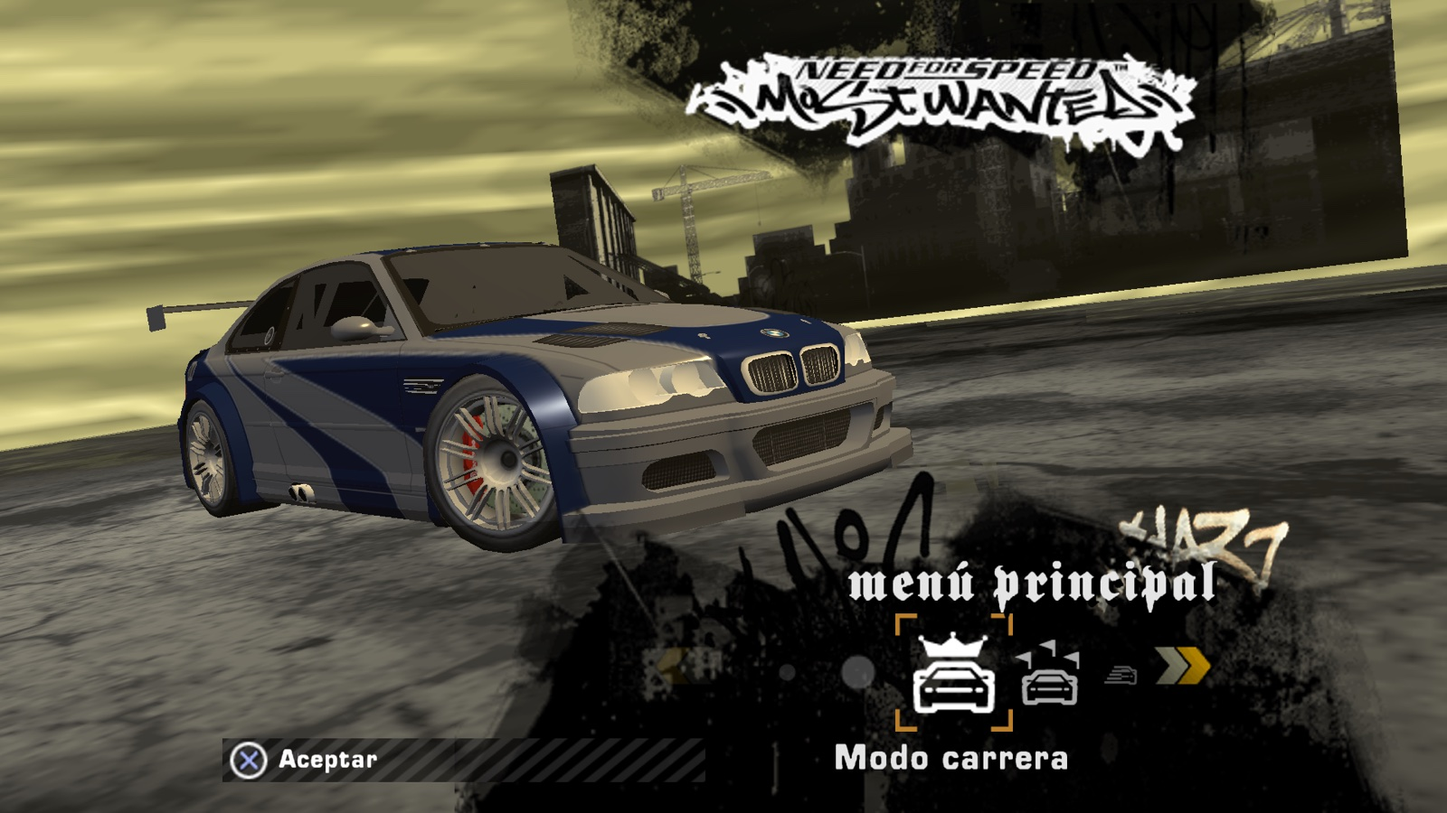
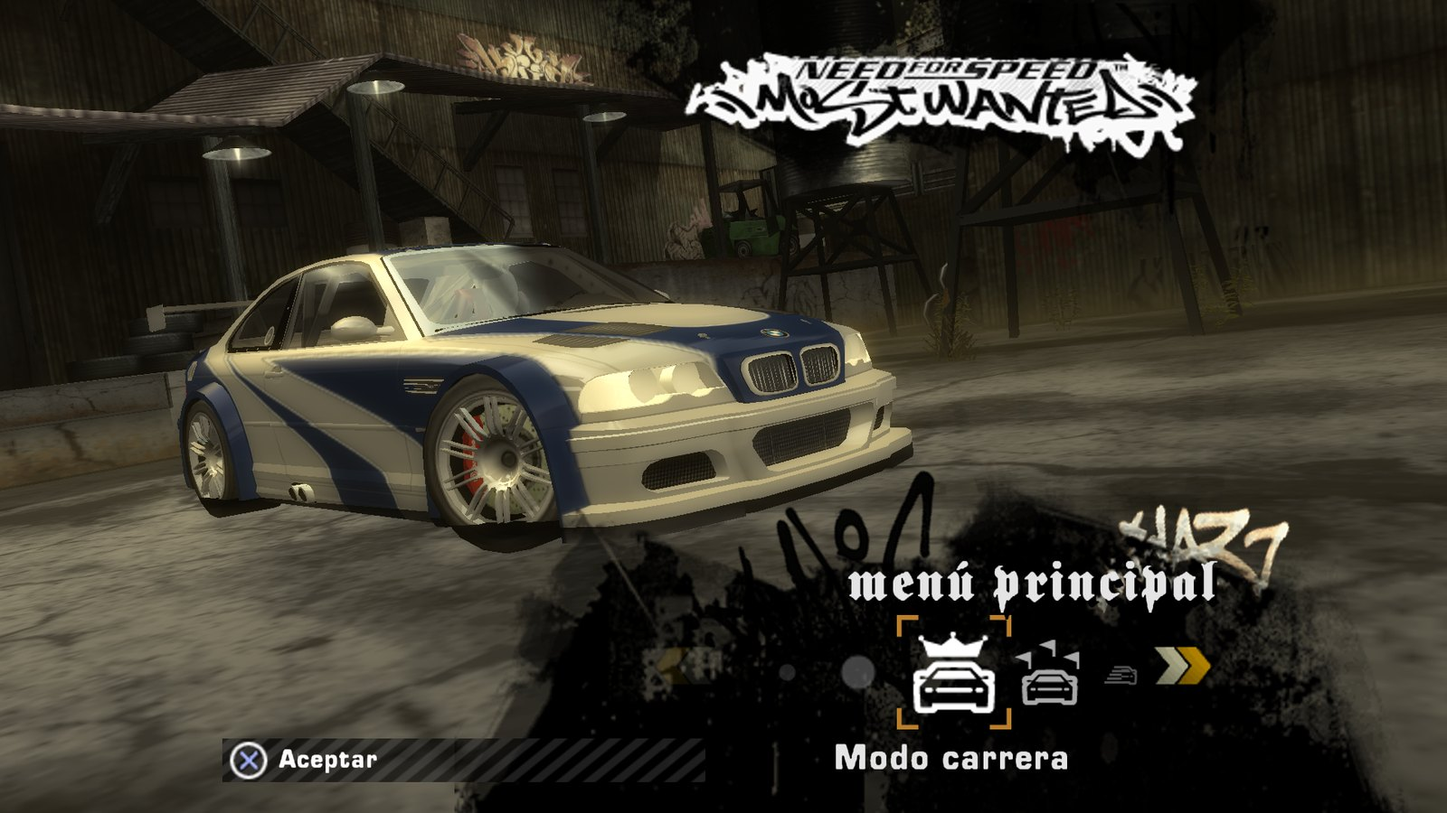
v0.6: interiores de garaje fieles (todos los BACKDROP del juego, patio de los depósitos en el menú), entrada conduciendo construida con texturas del disco, cambio de coche sin carga; README con galería nueva, cobertura 99,94 % y documentos 20-25

diff --git a/site/index.html b/site/index.html
@@ -174,8 +174,8 @@
     <p class="lede rise">
       <span data-es>Need for Speed: Most Wanted (2005), funcionando de forma nativa en macOS con Metal. Lo construyes tú desde <b>tu propia ISO de PS2</b>: el instalador detecta si es PAL (SLES-53559) o NTSC-U (SLUS-21351) y convierte el juego en tu Mac.</span>
       <span data-en>Need for Speed: Most Wanted (2005), running natively on macOS with Metal. You build it from <b>your own PS2 ISO</b>: the installer detects PAL (SLES-53559) or NTSC-U (SLUS-21351) and converts the game on your Mac.</span>
-      <small data-es>Proyecto abierto de ingeniería inversa. No incluye ni distribuye datos del juego. Versión 0.5 · Mac con Apple Silicon, macOS 14+.</small>
-      <small data-en>Open reverse-engineering project. It does not include or distribute game data. Version 0.5 · Apple Silicon Mac, macOS 14+.</small>
+      <small data-es>Proyecto abierto de ingeniería inversa. No incluye ni distribuye datos del juego. Versión 0.6 · Mac con Apple Silicon, macOS 14+.</small>
+      <small data-en>Open reverse-engineering project. It does not include or distribute game data. Version 0.6 · Apple Silicon Mac, macOS 14+.</small>
     </p>
     <div class="cta rise">
       <a class="btn solid" href="https://github.com/pablonolascoo/nfs-mw-2005-ps2-port/releases/latest"><i class="ph-bold ph-download-simple"></i> <span data-es>Descargar para Mac</span><span data-en>Download for Mac</span></a>

diff --git a/native-engine/Sources/Rockport/Garage/GarageScenes.swift b/native-engine/Sources/Rockport/Garage/GarageScenes.swift
@@ -64,7 +64,7 @@ final class GarageScenes {
     /// Depuración: ROCKPORT_SCENE_OFF=1 no dibuja la escena (para comparar con el interior solo).
     static let debugOff = ProcessInfo.processInfo.environment["ROCKPORT_SCENE_OFF"]
     /// Intensidad del reflejo del suelo del escenario (ROCKPORT_REFLECTION=0…1 para probar).
-    static let reflectionTint: Float = ProcessInfo.processInfo.environment["ROCKPORT_REFLECTION"].flatMap(Float.init) ?? 0.18
+    static let reflectionTint: Float = ProcessInfo.processInfo.environment["ROCKPORT_REFLECTION"].flatMap(Float.init) ?? 0.5
     private let root: URL
     private var cache: [String: Scene?] = [:]
     private var reflections: [String: GPUMesh?] = [:]

diff --git a/native-engine/Sources/Rockport/Garage/GarageSystem.swift b/native-engine/Sources/Rockport/Garage/GarageSystem.swift
@@ -67,7 +67,9 @@ final class GarageSystem {
             }
         }
         scenes.apply(&f)
-        renderer.items = items + scenes.drawItems(stage: stage, world: world)
+        // La escena va antes: el reflejo del escenario (debajo del suelo semitransparente, que no escribe profundidad) tiene
+        // que dibujarse antes que el suelo
+        renderer.items = scenes.drawItems(stage: stage, world: world) + items
     }
 }
 

diff --git a/README.en.md b/README.en.md
@@ -4,7 +4,7 @@
 
 <a href="https://rockport-native.vercel.app"><img src="site/img/banner.jpg" alt="Rockport Native: the Most Wanted BMW M3 GTR in the native macOS engine" width="100%"></a>
 
-<p align="center"><b><a href="https://github.com/pablonolascoo/nfs-mw-2005-ps2-port/releases/latest">⬇ Download for Mac (v0.5)</a></b> · <a href="https://rockport-native.vercel.app">🌐 Project page</a> · <a href="#user-guide">User guide</a> · <a href="#the-rust-belt-expansion">The expansion</a> · <a href="ROADMAP.en.md">Roadmap</a> · <a href="CONTRIBUTING.md">Contribute</a> · <a href="CONTEXT.md">Context</a></p>
+<p align="center"><b><a href="https://github.com/pablonolascoo/nfs-mw-2005-ps2-port/releases/latest">⬇ Download for Mac (v0.6)</a></b> · <a href="https://rockport-native.vercel.app">🌐 Project page</a> · <a href="#user-guide">User guide</a> · <a href="#the-rust-belt-expansion">The expansion</a> · <a href="ROADMAP.en.md">Roadmap</a> · <a href="CONTRIBUTING.md">Contribute</a> · <a href="CONTEXT.md">Context</a></p>
 
 **An open decompilation and reverse-engineering project** for the **PlayStation 2** *Need for Speed: Most Wanted* (2005). We read your own ISO, understand every format and game system (helped by the [dbalatoni13/nfsmw](https://github.com/dbalatoni13/nfsmw) decomp) and rebuild it as a **native game**, faithful to the original: same city, same cars, same interface, same warm PS2 tone.
 
@@ -16,8 +16,8 @@ Then **we expand it**: an expansion that continues the story as if the same stud
 
 | | What | Status |
 |---|---|---|
-| 🔬 **Decompilation** | Disc formats, database, physics, AI, interface, audio… all documented in [`docs/`](docs/en), every fact tagged ([V] verified, [D] decomp, [I] inferred, [H] hypothesis) | ✅ well advanced |
-| 🖥 **Native port** | Own engine that plays Rockport from your ISO, no emulator | ✅ playable on Mac (v0.5) |
+| 🔬 **Decompilation** | Disc formats, database, physics, AI, interface, audio, movies, music, scenes… all documented in [`docs/`](docs/en), every fact tagged ([V] verified, [D] decomp, [I] inferred, [H] hypothesis) | ✅ **99.94 % of the disc understood** ([doc 21](docs/en/21-coverage.md)) |
+| 🖥 **Native port** | Own engine that plays Rockport from your ISO, no emulator | ✅ playable on Mac (v0.6) |
 | 🗺 **"Rust Belt" expansion** | 4 new districts, Blacklist 2, classic cars, the story continues | 🧭 designed, [see below](#the-rust-belt-expansion) |
 
 ### Platforms
@@ -43,14 +43,14 @@ Beating Razor opens an industrial Rust Belt county around Rockport: **Millbrook*
 | Race with the original HUD | Police pursuit |
 |---|---|
 | <img src="site/img/carrera.jpg" alt="Sprint race with the original HUD and the event barriers"> | <img src="site/img/persecucion.jpg" alt="Pursuit with the original HUD and radar"> |
-| **Original main menu, with your car** | **Customization shop, no loading screens** |
-| <img src="site/img/menu.jpg" alt="Original main menu with the BMW M3 GTR"> | <img src="site/img/taller.jpg" alt="Customization shop: painting the BMW"> |
-| **Race results** | **Blacklist screen** |
-| <img src="site/img/resultados.jpg" alt="Original results screen"> | <img src="site/img/listanegra-pantalla.jpg" alt="Blacklist screen with Sonny, #15"> |
+| **Main menu: the water-tower yard** | **Your safehouse, with the Blacklist chalkboard** |
+| <img src="site/img/menu.jpg" alt="Original main menu with the BMW M3 GTR in the night yard"> | <img src="site/img/garaje-coches.jpg" alt="The BMW M3 GTR in the safehouse"> |
+| **Customization shop, no loading screens** | **Blacklist screen** |
+| <img src="site/img/taller.jpg" alt="Customization shop: painting the BMW"> | <img src="site/img/listanegra-pantalla.jpg" alt="Blacklist screen with Sonny, #15"> |
 
 ## What works today
 
-### The game (native macOS engine, v0.5)
+### The game (native macOS engine, v0.6)
 | | Status |
 |---|---|
 | All of Rockport full screen at your screen's resolution and 60 fps, with the warm PS2 tone always on | ✅ |
@@ -63,8 +63,8 @@ Beating Razor opens an industrial Rust Belt county around Rockport: **Millbrook*
 | **Original sound**: each car's engine, turbo, shifts, nitrous, skids, impacts, sirens — [doc 16](docs/en/16-audio-and-voices.md) | ✅ |
 | **Quick Race and split screen** (2 players as the original; 3–4 and multi-display as extensions) — [doc 19](docs/en/19-quick-race-and-multiplayer.md) | ✅ |
 | **Controllers**: Xbox, PS3/PS4/PS5 and PS2 via USB, with light bar, touchpad and DualSense triggers — [doc 15](docs/en/15-controllers.md) | ✅ (untested on real hardware) |
-| The game's lighting: car reflections, shadows, fog and light shafts | 🚧 in progress |
-| Movies, music, career map, car-to-car collisions, helicopter | 🔜 |
+| **The game's lighting**: car reflections from the disc's environment maps, shadow, sky, sun and glow; garages faithful to the original — [doc 20](docs/en/20-lighting-and-effects.md) | ✅ |
+| Movies (dubbed in Spanish on the PAL disc), EA Trax music, particles and flares: **decoded**, not yet wired into the game · car-to-car collisions · helicopter | 🔜 |
 
 ### The reverse engineering
 | | Status |
@@ -196,22 +196,36 @@ cd ../viewer && bun install && bunx vite                                    # ht
 ```
 
 ## Documentation
-| Topic | English | Español |
-|---|---|---|
-| Disc identification | [docs/en/00](docs/en/00-disc-identification.md) | [docs/es/00](docs/es/00-identificacion-disco.md) |
-| Decomp compatibility | [docs/en/01](docs/en/01-sles53559-compatibility.md) | [docs/es/01](docs/es/01-compatibilidad-sles53559.md) |
-| PS2 formats | [docs/en/02](docs/en/02-ps2-formats.md) | [docs/es/02](docs/es/02-formatos-ps2.md) |
-| Rockport world | [docs/en/03](docs/en/03-rockport-world-ps2.md) | [docs/es/03](docs/es/03-mundo-rockport-ps2.md) |
-| Porting architecture | [docs/en/04](docs/en/04-port-architecture.md) | [docs/es/04](docs/es/04-arquitectura-port.md) |
-| Driving and garages | [docs/en/07](docs/en/07-driving-and-garages.md) | [docs/es/07](docs/es/07-conduccion-y-garajes.md) |
-| Mods and expansions | [docs/en/08](docs/en/08-mods.md) | [docs/es/08](docs/es/08-mods.md) |
-| Gameplay database (VLT): zones, races, Blacklist | [docs/en/05](docs/en/05-vlt-attributes.md) | [docs/es/05](docs/es/05-vlt-atributos.md) |
-| Viewer performance | [docs/en/06](docs/en/06-performance.md) | [docs/es/06](docs/es/06-rendimiento.md) |
-| Road network and collision | [docs/en/09](docs/en/09-road-network.md) | [docs/es/09](docs/es/09-red-de-carreteras.md) |
-| Cars: replacement textures, paint, wheels | [docs/en/10](docs/en/10-cars.md) | [docs/es/10](docs/es/10-coches.md) |
-| "Rust Belt" expansion: map, sketches, story | [docs/en/12](docs/en/12-rust-belt-expansion.md) | [docs/es/12](docs/es/12-expansion-rust-belt.md) |
-| Generated data catalog (which file answers what) | [docs/en/11](docs/en/11-data-catalog.md) | [docs/es/11](docs/es/11-catalogo-de-datos.md) |
-| **Project context: start here to resume work** | [CONTEXT.md](CONTEXT.md) | [CONTEXT.md](CONTEXT.md) |
+Every document exists in English (`docs/en/`) and Spanish (`docs/es/`). To resume the project: **[CONTEXT.md](CONTEXT.md)**.
+
+| # | Topic | English | Español |
+|---|---|---|---|
+| 00 | Disc identification | [en](docs/en/00-disc-identification.md) | [es](docs/es/00-identificacion-disco.md) |
+| 01 | Decomp compatibility | [en](docs/en/01-sles53559-compatibility.md) | [es](docs/es/01-compatibilidad-sles53559.md) |
+| 02 | PS2 formats | [en](docs/en/02-ps2-formats.md) | [es](docs/es/02-formatos-ps2.md) |
+| 03 | The Rockport world | [en](docs/en/03-rockport-world-ps2.md) | [es](docs/es/03-mundo-rockport-ps2.md) |
+| 04 | Port architecture | [en](docs/en/04-port-architecture.md) | [es](docs/es/04-arquitectura-port.md) |
+| 05 | Game database (VLT) | [en](docs/en/05-vlt-attributes.md) | [es](docs/es/05-vlt-atributos.md) |
+| 06 | Performance | [en](docs/en/06-performance.md) | [es](docs/es/06-rendimiento.md) |
+| 07 | Driving and garages | [en](docs/en/07-driving-and-garages.md) | [es](docs/es/07-conduccion-y-garajes.md) |
+| 08 | Mods | [en](docs/en/08-mods.md) | [es](docs/es/08-mods.md) |
+| 09 | Road network and collision | [en](docs/en/09-road-network.md) | [es](docs/es/09-red-de-carreteras.md) |
+| 10 | Cars, paints and vinyls | [en](docs/en/10-cars.md) | [es](docs/es/10-coches.md) |
+| 11 | Generated data catalog | [en](docs/en/11-data-catalog.md) | [es](docs/es/11-catalogo-de-datos.md) |
+| 12 | "Rust Belt" expansion | [en](docs/en/12-rust-belt-expansion.md) | [es](docs/es/12-expansion-rust-belt.md) |
+| 13 | Driving physics | [en](docs/en/13-driving-physics.md) | [es](docs/es/13-fisica-conduccion.md) |
+| 14 | Traffic, police and pursuits | [en](docs/en/14-traffic-and-police.md) | [es](docs/es/14-trafico-y-policia.md) |
+| 15 | Controllers | [en](docs/en/15-controllers.md) | [es](docs/es/15-mandos.md) |
+| 16 | Audio and voices | [en](docs/en/16-audio-and-voices.md) | [es](docs/es/16-audio-y-voces.md) |
+| 17 | Original interface | [en](docs/en/17-interface.md) | [es](docs/es/17-interfaz.md) |
+| 18 | Races and Blacklist | [en](docs/en/18-races-and-blacklist.md) | [es](docs/es/18-carreras-y-lista-negra.md) |
+| 19 | Quick Race and multiplayer | [en](docs/en/19-quick-race-and-multiplayer.md) | [es](docs/es/19-carrera-rapida-y-multijugador.md) |
+| 20 | Lighting and effects | [en](docs/en/20-lighting-and-effects.md) | [es](docs/es/20-iluminacion-y-efectos.md) |
+| 21 | Disc coverage (what is decoded) | [en](docs/en/21-coverage.md) | [es](docs/es/21-cobertura.md) |
+| 22 | Movies, subtitles and collision | [en](docs/en/22-movies-subtitles-and-collision.md) | [es](docs/es/22-peliculas-subtitulos-y-colision.md) |
+| 23 | In-engine scenes (NIS) | [en](docs/en/23-nis-scenes.md) | [es](docs/es/23-escenas-nis.md) |
+| 24 | Particles, flares and world data | [en](docs/en/24-effects-lights-and-world.md) | [es](docs/es/24-efectos-luces-y-mundo.md) |
+| 25 | Music and mixing | [en](docs/en/25-music-and-mixing.md) | [es](docs/es/25-musica-y-mezcla.md) |
 
 Every claim is tagged **[V]** verified on real data, **[D]** from the decomp's debug types, **[I]** inferred, or **[H]** hypothesis.
 

diff --git a/README.md b/README.md
@@ -4,7 +4,7 @@
 
 <a href="https://rockport-native.vercel.app"><img src="site/img/banner.jpg" alt="Rockport Native: el BMW M3 GTR de Most Wanted en el motor nativo de macOS" width="100%"></a>
 
-<p align="center"><b><a href="https://github.com/pablonolascoo/nfs-mw-2005-ps2-port/releases/latest">⬇ Descargar para Mac (v0.5)</a></b> · <a href="https://rockport-native.vercel.app">🌐 Página del proyecto</a> · <a href="#guía-de-uso">Guía de uso</a> · <a href="#la-ampliación-rust-belt">La expansión</a> · <a href="ROADMAP.md">Hoja de ruta</a> · <a href="CONTRIBUTING.md">Colaborar</a> · <a href="CONTEXT.md">Contexto</a></p>
+<p align="center"><b><a href="https://github.com/pablonolascoo/nfs-mw-2005-ps2-port/releases/latest">⬇ Descargar para Mac (v0.6)</a></b> · <a href="https://rockport-native.vercel.app">🌐 Página del proyecto</a> · <a href="#guía-de-uso">Guía de uso</a> · <a href="#la-ampliación-rust-belt">La expansión</a> · <a href="ROADMAP.md">Hoja de ruta</a> · <a href="CONTRIBUTING.md">Colaborar</a> · <a href="CONTEXT.md">Contexto</a></p>
 
 **Proyecto abierto de decompilación e ingeniería inversa** del *Need for Speed: Most Wanted* (2005) de **PlayStation 2**. Leemos tu propia ISO, entendemos cada formato y cada sistema del juego (con ayuda de la decomp [dbalatoni13/nfsmw](https://github.com/dbalatoni13/nfsmw)) y lo volvemos a montar como **juego nativo**, fiel al original: misma ciudad, mismos coches, misma interfaz, mismo tono cálido de PS2.
 
@@ -16,8 +16,8 @@ Y después, **lo ampliamos**: una expansión que continúa la historia como si l
 
 | | Qué | Estado |
 |---|---|---|
-| 🔬 **Decompilación** | Formatos del disco, base de datos, física, IA, interfaz, audio… todo documentado en [`docs/`](docs/es) con cada dato etiquetado ([V] verificado, [D] decomp, [I] inferido, [H] hipótesis) | ✅ muy avanzada |
-| 🖥 **Port nativo** | Motor propio que juega Rockport desde tu ISO, sin emulador | ✅ jugable en Mac (v0.5) |
+| 🔬 **Decompilación** | Formatos del disco, base de datos, física, IA, interfaz, audio, películas, música, escenas… todo documentado en [`docs/`](docs/es) con cada dato etiquetado ([V] verificado, [D] decomp, [I] inferido, [H] hipótesis) | ✅ **99,94 % del disco entendido** ([doc 21](docs/es/21-cobertura.md)) |
+| 🖥 **Port nativo** | Motor propio que juega Rockport desde tu ISO, sin emulador | ✅ jugable en Mac (v0.6) |
 | 🗺 **Expansión «Rust Belt»** | 4 distritos nuevos, Lista Negra 2, coches clásicos, la historia continúa | 🧭 diseñada, [ver abajo](#la-ampliación-rust-belt) |
 
 ### Plataformas
@@ -43,14 +43,14 @@ Al vencer a Razor se abre un condado industrial del Rust Belt alrededor de Rockp
 | Carrera con el HUD original | Persecución con la policía |
 |---|---|
 | <img src="site/img/carrera.jpg" alt="Carrera sprint con el HUD original y las vallas de la prueba"> | <img src="site/img/persecucion.jpg" alt="Persecución con el HUD original y el radar"> |
-| **Menú principal original, con tu coche** | **Taller de tuneo sin pantallas de carga** |
-| <img src="site/img/menu.jpg" alt="Menú principal original con el BMW M3 GTR"> | <img src="site/img/taller.jpg" alt="Taller de tuneo: pintura del BMW"> |
-| **Resultados de la carrera** | **Pantalla de la Lista Negra** |
-| <img src="site/img/resultados.jpg" alt="Pantalla de resultados original"> | <img src="site/img/listanegra-pantalla.jpg" alt="Pantalla de la Lista Negra con Sonny, el #15"> |
+| **Menú principal: el patio de los depósitos de agua** | **Tu refugio, con la pizarra de la Lista Negra** |
+| <img src="site/img/menu.jpg" alt="Menú principal original con el BMW M3 GTR en el patio nocturno"> | <img src="site/img/garaje-coches.jpg" alt="El BMW M3 GTR en el refugio"> |
+| **Taller de tuneo sin pantallas de carga** | **Pantalla de la Lista Negra** |
+| <img src="site/img/taller.jpg" alt="Taller de tuneo: pintura del BMW"> | <img src="site/img/listanegra-pantalla.jpg" alt="Pantalla de la Lista Negra con Sonny, el #15"> |
 
 ## Qué funciona hoy
 
-### El juego (motor nativo de macOS, v0.5)
+### El juego (motor nativo de macOS, v0.6)
 | | Estado |
 |---|---|
 | Rockport entero a pantalla completa, a la resolución de tu pantalla y a 60 fps, con el tono cálido de PS2 siempre puesto | ✅ |
@@ -63,8 +63,8 @@ Al vencer a Razor se abre un condado industrial del Rust Belt alrededor de Rockp
 | **Sonido original**: motor de cada coche, turbo, cambios, nitro, derrapes, golpes, sirenas — [doc 16](docs/es/16-audio-y-voces.md) | ✅ |
 | **Carrera rápida y pantalla partida** (2 jugadores como el original; 3-4 y varias pantallas como ampliación) — [doc 19](docs/es/19-carrera-rapida-y-multijugador.md) | ✅ |
 | **Mandos** Xbox, PS3/PS4/PS5 y PS2 por USB, con barra de luz, táctil y gatillos del DualSense — [doc 15](docs/es/15-mandos.md) | ✅ (sin probar con hardware real) |
-| Iluminación del juego: reflejos del coche, sombras, niebla y luces volumétricas | 🚧 en curso |
-| Películas, música, mapa de la carrera profesional, choques entre coches, helicóptero | 🔜 |
+| **Iluminación del juego**: reflejos del coche con los mapas de entorno del disco, sombra, cielo, sol y resplandor; garajes fieles al original — [doc 20](docs/es/20-iluminacion-y-efectos.md) | ✅ |
+| Películas (dobladas al castellano en el disco PAL), música EA Trax, partículas y destellos: **descifrados**, falta conectarlos al juego · choques entre coches · helicóptero | 🔜 |
 
 ### La ingeniería inversa
 | | Estado |
@@ -220,6 +220,12 @@ Cada documento existe en español (`docs/es/`) y en inglés (`docs/en/`). Para r
 | 17 | Interfaz original | [es](docs/es/17-interfaz.md) | [en](docs/en/17-interface.md) |
 | 18 | Carreras y Lista Negra | [es](docs/es/18-carreras-y-lista-negra.md) | [en](docs/en/18-races-and-blacklist.md) |
 | 19 | Carrera rápida y multijugador | [es](docs/es/19-carrera-rapida-y-multijugador.md) | [en](docs/en/19-quick-race-and-multiplayer.md) |
+| 20 | Iluminación y efectos | [es](docs/es/20-iluminacion-y-efectos.md) | [en](docs/en/20-lighting-and-effects.md) |
+| 21 | Cobertura del disco (qué está descifrado) | [es](docs/es/21-cobertura.md) | [en](docs/en/21-coverage.md) |
+| 22 | Películas, subtítulos y colisión | [es](docs/es/22-peliculas-subtitulos-y-colision.md) | [en](docs/en/22-movies-subtitles-and-collision.md) |
+| 23 | Escenas con el motor (NIS) | [es](docs/es/23-escenas-nis.md) | [en](docs/en/23-nis-scenes.md) |
+| 24 | Partículas, destellos y datos del mundo | [es](docs/es/24-efectos-luces-y-mundo.md) | [en](docs/en/24-effects-lights-and-world.md) |
+| 25 | Música y mezcla | [es](docs/es/25-musica-y-mezcla.md) | [en](docs/en/25-music-and-mixing.md) |
 
 Cada afirmación lleva **[V]** verificado en datos reales, **[D]** sacado de la decomp, **[I]** inferido o **[H]** hipótesis.
 

diff --git a/CONTEXT.md b/CONTEXT.md
@@ -106,6 +106,7 @@ Hecho:
 - **Carreras y Lista Negra** (doc 18): paso `races` → `races.json` (254 pruebas, bins, hitos + radares de la zona libre, 1 376 vallas `TrackPathBarrier` de `L2RA.BUN` 0x0003414D), `DATA_FORMAT` 4. Ruta por la red cerrada por las vallas (mediana 0,997 de `RaceLength`), rivales con la física y la IA de carrera del juego (AIActionRace/AIVehiclePid, «glue»), los 7 tipos de prueba, carrera profesional 15 → 1 con partida `save.json`, candados por bin. **Colisión**: los objetos de grupos ocultos (891 instancias con `GroupNumber`) eran muros invisibles; ahora van en `collision/groups/`. Pruebas: `--race-test`, `--career-test`, `--race-audit`.
 - **Sonido del juego** (doc 16 §7–10): paso `sound` → `sound/` (301 bancos AEMS `ABKC` + 160 motores granulares `.GIN` tal cual, `sound.json` con VLT `engineaudio`/`turbosfx`/`shiftpattern`, coche → sonidos, 608 «stitches» de golpes de `INGAMEB.BUN`), `DATA_FORMAT` 5. Códecs PS-ADPCM, EA-XA v2 y EA-XAS propios: 2350/2350 sonidos y 160/160 `.GIN` iguales a vgmstream. En la app: sintetizador Ginsu y lógica del motor de la decomp (RPM de audio, cambios, mezcla acelerando/desacelerando), turbo, nitro, derrapes, viento, golpes, sirenas 3D, tráfico y rivales; 0,2 % de un núcleo. Pruebas: `--sound-test`, `--sound-dump`. Falta: capa AEMS (módulos MIPS) y `MIXMAPS`.
 - **Garajes sin carga y fondo de los menús** (doc 07, doc 17): los menús muestran el garaje del frontend (`PLATFORMCRIB`) con el coche del jugador y la cámara de `GLOBAL\FE_ATTRIB.BIN` (paso `fe-cameras` → `fe-cameras.json`: 108 ángulos, 186 pantallas, 34 coches del concesionario). Los 15 garajes se entran conduciendo por su persiana real (recorte del edificio en los shaders, interior colocado dentro, colisión) y abren los menús originales: refugio (Lista Negra, Mis coches, Guardar), concesionario (comprar) y taller (pintura, vinilos, llantas, alerones, kit, barra de luz). Refugios 2, 4 y 5: su edificio real (`XB_SafeHouse`, `XB_FishSafehouse`, `XB_TC_SafeHouse`). **Conversor**: posiciones V4-32 (float) en metros; salen la cúpula de los garajes y 5 071 tiras del mundo (rascacielos, cielo, montañas). **Carrusel**: centro en `OPTION_MASTER` [V: ensamblador]. Pruebas: `--garage-test`.
+- **Escenarios completos y escenas de garaje conducibles** (doc 07 §1.0 y §5, `DATA_FORMAT` 10): el conversor saca todos los `BACKDROP*` que dibuja el juego (`FEGeometryModels` [D]); los `BACKDROP_CAST_SHADOW_MAP*` son los objetos del escenario (depósitos de agua y carretilla del menú, neumáticos, bidones y cajas rojas del refugio, fundas del taller), no sombras [V]; reflejo del refugio en `interiors/<NOMBRE>.reflection.glb`. `PLATFORMCRIB` es el patio de noche de los depósitos de agua; la selección de coche con neumáticos y cajas rojas es `CAREER_SAFEHOUSE` + `career_car_select`. Paso `garage-scenes` → `garage-scenes/` (volumen real de la nave con la colisión del mundo, paredes/techo/vigas/marco/umbral nuestros con texturas del disco, colisión NFSC); plantillas en `tools/data/garage-layouts.json` (solo números y nombres). Motor: `Garage/GarageScenes.swift` (escena, umbral, reflejo, cambio de coche animado en «Mis coches» y concesionario). 13/15 garajes entran con el piloto de prueba. Pruebas: `--garage-scene`, `--garage-swap-test`.
 - **Carrera rápida y multijugador** (doc 19): pantallas del juego (MainMenu_Sub, Track_Select con `TRACK_MAP_<id>` de `TrackMaps.bin`, Track_Options, PressStart, Car_Select) con la lógica de `quickrace/*.cpp`; desbloqueo de coches con `frontend.UnlockedAt` (FE_ATTRIB.BIN) y de pruebas con la partida. **Pantalla partida original** para 2 (horizontal, `HUD_Player1/2` de `INGAMESPLITSCREEN.BUN`, cámaras de pantalla partida) y extensión a 3–4 jugadores y a varias pantallas (`--displays`, `--players`); un mando por jugador sin mezclas, luz y LED de jugador, desconexión con `ControllerUnplugged.fng`. Medido a 2940×1912: 4 jugadores GPU 5,2 ms. Pruebas: `--split-test N`, `--quickrace-test`.
 
 - **Auditoría de cobertura** (doc 21, `tools/src/cli/coverage.ts`): cada archivo y cada bChunk del disco clasificado. Entendido **49,35 % → 99,94 %** de 3 862 MB (sin películas: 72,45 % → 99,86 %); usado por el juego nativo: 23 %. Hallazgos: las 64 películas `_UNKNOWN` son las versiones **dobladas al castellano e italiano**; subtítulos en `LANGUAGES\<IDIOMA>.BIN` (vacíos donde hay doblaje); películas reproducibles con VideoToolbox (MPEG-2) + decodificador R3 propio, leyendo de la ISO (doc 22). Nuevos pasos del conversor: `movies`, `bounds`, `effects`, `nis`, `music` → `DATA_FORMAT` 9. Queda parcial: módulos AEMS (código MIPS), acciones de la música, una animación DeltaQ, un overlay de código.
@@ -132,6 +133,7 @@ Dudas abiertas: tipos de carril 2/3/4/7/10, escala de longitud de `RNrd`, 8 hash
 - Races and Blacklist playable in the native engine (doc 18): `races.json`, barrier-closed routes, game racer AI, 7 event types, career 15 → 1 with save; hidden-group collision moved to `collision/groups/` (was invisible walls).
 - Game sound in the native engine (doc 16 §7–10): `sound` step → `sound/` (ABKC banks + Ginsu `.GIN` engines, `sound.json`), own decoders identical to vgmstream, the decomp's Ginsu synth and engine logic, turbo, nitrous, skids, impacts, 3D sirens; `DATA_FORMAT` 5.
 - Seamless garages and menu background (doc 07): front-end garage scene with the player's car and the `FE_ATTRIB.BIN` cameras (`fe-cameras.json`); the 15 garages are entered through their real roller door and open the original safehouse / car lot / shop menus with live tuning; converter fix for float (V4-32) positions (downtown skyline, sky, mountains); icon carousel centred on `OPTION_MASTER`.
+- Complete front-end scenes and drivable garage scenes (doc 07 §1.0, §5; data format 10): every `BACKDROP*` solid the game draws (the `CAST_SHADOW_MAP*` ones are the props, not shadows); `garage-scenes` step builds our bay walls, ceiling, frame and apron with disc textures plus collision (`tools/data/garage-layouts.json`); animated car swap without loading screens.
 - Quick Race with the game's own screens and split screen (doc 19): original 2-player horizontal split (`HUD_Player1/2`), extension to 3–4 players and several displays, one controller per player with no input mixing, unplug pause.
 - Coverage audit (doc 21): understood 49.35 % → 99.94 % of the disc (used by the native game: 23 %). New converter steps `movies`, `bounds`, `effects`, `nis`, `music` (docs 22–25), `DATA_FORMAT` 9. Spanish/Italian dubbed movies found; subtitles decoded; movies play natively via VideoToolbox.
 - Next steps: real collision in driving (road layer already in the viewer), front-end car reflections and garage lights, game physics and audio from the decomp, native Metal engine, road/district editor, story/sequel mods.

diff --git a/native-engine/README.md b/native-engine/README.md
@@ -41,6 +41,9 @@ Se generan en `native-engine/.build/shots/` (no se suben a git):
 | `garage/safehouse-1920-1-fuera/2-dentro/3-aparcado.png` | Entrar conduciendo en el refugio 1: persiana, interior y menú (`--garage-test zone_safehouse_1`) |
 | `garage/customshop-paint-1920-3-aparcado.png`, `customshop-rims-…` | Taller: pintura y llantas montadas en el coche |
 | `garage/carlot-1920-3-aparcado.png` | Concesionario con precio y logotipos |
+| `garage2/ref8-menu-principal.png`, `ref9/ref10-refugio-mis-coches.png` | Escenarios del menú con todos los objetos del disco, comparables con las capturas del juego (`--ui-test MainMenu`, `--garage-scene career_safehouse --fe-angle career_car_select`) |
+| `garage2/entrada-refugio1-1-fuera/2-dentro/3-aparcado.png` (y `-taller2`, `-concesionario1`) | Entrar conduciendo con la escena conducible: umbral, nave con paredes y techo, menú |
+| `garage2/refugio1-mis-coches-swap-0…6.png`, `concesionario1-swap-…` | Cambio de coche sin pantalla de carga (`--garage-swap-test`) |
 
 ## Cómo se compila y se arranca
 
@@ -101,6 +104,7 @@ Los datos se generan antes con `cd tools && bun run build-all <tu ISO>` (ver `CO
 | `--quickrace-test [--split N] [--screenshot base.png]` | Sin ventana: recorre las pantallas de la carrera rápida (y «Pulsa START») hasta la salida, con una captura de cada una |
 | `--race-test <ID> [--autodrive] [--seconds N] [--opponents N] [--screenshot base.png]` | Sin ventana: corre la prueba con piloto automático; posiciones, tiempos, capturas `-start/-mid/-results/-finish` y JSON |
 | `--garage-test <zona> [--garage-mode drive\|inside\|list] [--garage-screen S] [--screenshot base.png]` | Sin ventana: entra en un garaje (doc 07 §3.4) |
+| `--garage-scene <tipo> [--fe-angle A] [--scene-car C]` · `--garage-swap-test <zona> [--scene-car C]` | Sin ventana: escenario del frontend con cualquier cámara · cambio de coche animado (doc 07 §5) |
 | `--career-test [--save ruta]` · `--race-audit` | Sin ventana: Lista Negra simulada 15 → 1 · rutas de todas las pruebas frente a `RaceLength` |
 | `--physics-test [COCHE] [--physics-trace]` | Sin ventana: física del juego en un plano: 0–100, punta, frenada, curva, freno de mano, NOS |
 | `--lightbar paint\|police\|heat\|off\|custom:RRGGBB` | Modo de la barra de luz del mando en esta sesión (no se guarda). También `ROCKPORT_LIGHTBAR` |
@@ -322,7 +326,7 @@ Va siempre activo en el juego. Solo para desarrollo se cambia con `--grade <n>` 
 ## Garajes sin carga y fondo de los menús (2026-10-15)
 
 - **Fondo de los menús como el juego**: «Pulsa START», el menú principal y el de la carrera muestran el garaje del frontend
-  (`PLATFORMCRIB`: azotea industrial con grúas y cúpula del cielo) con el coche del jugador (el de la partida con su tuneo; por
+  (`PLATFORMCRIB`: patio industrial de noche con depósitos de agua, casetas, carretilla y cúpula del cielo) con el coche del jugador (el de la partida con su tuneo; por
   defecto el BMW M3 GTR de la historia), colocado como `GarageMainScreen` y con la cámara de `GLOBAL\FE_ATTRIB.BIN`
   (`SelectCarCameraMover`: entrada → final → ángulo de cada pantalla, con su giro de cámara) [D][V].
 - **Garajes sin pantallas de carga** (`Garage/`): los 15 garajes del juego. Al llegar despacio a la puerta real, el edificio se
@@ -336,8 +340,14 @@ Va siempre activo en el juego. Solo para desarrollo se cambia con `--grade <n>` 
   los garajes y **5 071 tiras del mundo** (rascacielos del centro, cielo, montañas del fondo).
 - **Carrusel de iconos**: el centro es `OPTION_MASTER` (ensamblador), que además se oculta: ya no se solapan iconos; iconos en
   naranja dentro del juego; flechas que se apagan en los extremos. Lista Negra con su panel de requisitos y recompensa/dinero.
-- Pruebas: `--garage-test <zona> [--garage-mode drive|inside|list] [--garage-screen …]`. Detalle:
-  [doc 07](../docs/es/07-conduccion-y-garajes.md) y [doc 17](../docs/es/17-interfaz.md).
+- **Escenarios completos** (formato de datos 10): el conversor saca todos los `BACKDROP*` que dibuja el juego; los
+  `BACKDROP_CAST_SHADOW_MAP*` son los objetos (depósitos de agua y carretilla del menú, neumáticos, bidones y cajas del refugio,
+  fundas del taller), no sombras. Reflejo del suelo del refugio aparte.
+- **Escenas conducibles** (`Garage/GarageScenes.swift`, paso `garage-scenes`): nave medida con la colisión del mundo, paredes,
+  techo, vigas, marco y umbral/rampa hechos por nosotros con texturas del disco (tamaño y luz medidos en el interior), con su
+  colisión; cambio de coche en «Mis coches» y el concesionario sin pantalla de carga. Se editan en `tools/data/garage-layouts.json`.
+- Pruebas: `--garage-test <zona> [--garage-mode drive|inside|list] [--garage-screen …]`, `--garage-scene`, `--garage-swap-test`.
+  Detalle: [doc 07](../docs/es/07-conduccion-y-garajes.md) y [doc 17](../docs/es/17-interfaz.md).
 
 ## Carrera rápida y pantalla partida (2026-10-15)
 

diff --git a/native-engine/README.en.md b/native-engine/README.en.md
@@ -39,6 +39,9 @@ Written to `native-engine/.build/shots/` (never committed):
 | `aerial.png` | The whole city from 900 m (far level) |
 | `garage/mainmenu-1920.png`, `-2940.png` | Main menu with the front-end garage and the BMW (`--ui-test MainMenu`) |
 | `garage/safehouse-1920-1-fuera/2-dentro/3-aparcado.png` | Driving into safehouse 1: roller door, interior and menu (`--garage-test zone_safehouse_1`) |
+| `garage2/ref8-menu-principal.png`, `ref9/ref10-refugio-mis-coches.png` | Menu scenes with every disc prop, comparable with the game's screenshots |
+| `garage2/entrada-refugio1-*.png` (and `-taller2`, `-concesionario1`) | Driving in with the drivable scene: apron, bay with walls and ceiling, menu |
+| `garage2/refugio1-mis-coches-swap-0…6.png`, `concesionario1-swap-…` | Car swap without a loading screen (`--garage-swap-test`) |
 | `garage/customshop-paint-1920-3-aparcado.png`, `customshop-rims-…` | Shop: paint and rims fitted to the car |
 | `garage/carlot-1920-3-aparcado.png` | Car lot with price and logos |
 
@@ -101,6 +104,7 @@ Generate the data first with `cd tools && bun run build-all <your ISO>` (see `CO
 | `--quickrace-test [--split N] [--screenshot base.png]` | Headless: walks the Quick Race screens (and "Press START") up to the start, one capture per screen |
 | `--race-test <ID> [--autodrive] [--seconds N] [--opponents N] [--screenshot base.png]` | Headless: run the event with the autopilot; positions, times, `-start/-mid/-results/-finish` captures and JSON |
 | `--garage-test <zone> [--garage-mode drive\|inside\|list] [--garage-screen S] [--screenshot base.png]` | Headless: enters a garage (doc 07 §3.4) |
+| `--garage-scene <kind> [--fe-angle A] [--scene-car C]` · `--garage-swap-test <zone> [--scene-car C]` | Headless: front-end scene with any camera · animated car swap (doc 07 §5) |
 | `--career-test [--save path]` · `--race-audit` | Headless: simulated Blacklist 15 → 1 · routes of every event against `RaceLength` |
 | `--physics-test [CAR] [--physics-trace]` | Window-less: game physics on a flat plane: 0–100, top speed, braking, cornering, handbrake, NOS |
 | `--lightbar paint\|police\|heat\|off\|custom:RRGGBB` | Pad light bar mode for this session (not saved). Also `ROCKPORT_LIGHTBAR` |
@@ -340,7 +344,7 @@ Notes:
 ## Seamless garages and the menu background (2026-10-15)
 
 - **Menu background like the game**: "Press START", the main menu and the career menu show the front-end garage
-  (`PLATFORMCRIB`: industrial rooftop with cranes and the sky dome) with the player's car (the career car with its tuning; by
+  (`PLATFORMCRIB`: night industrial yard with water towers, sheds, forklift and the sky dome) with the player's car (the career car with its tuning; by
   default the story BMW M3 GTR), placed like `GarageMainScreen` and with the `GLOBAL\FE_ATTRIB.BIN` cameras
   (`SelectCarCameraMover`: entry → final → each screen's angle, with its camera roll) [D][V].
 - **Garages without loading screens** (`Garage/`): the game's 15 garages. Drive slowly up to the real door: the building is cut
@@ -353,6 +357,12 @@ Notes:
   strips** (downtown skyscrapers, sky, background mountains) appear.
 - **Icon carousel**: the centre is `OPTION_MASTER` (assembly), which is also hidden: no more overlapping icons; orange icons in
   game; arrows dim at the ends. Blacklist with its requirements panel and bounty/cash.
+- **Complete scenes** (data format 10): the converter exports every `BACKDROP*` the game draws; the `BACKDROP_CAST_SHADOW_MAP*`
+  solids are the props (menu water towers and forklift, safehouse tyres, barrels and boxes, shop car covers), not shadows.
+  Safehouse floor reflection separately.
+- **Drivable scenes** (`Garage/GarageScenes.swift`, `garage-scenes` step): bay measured from the world collision; walls, ceiling,
+  beams, frame and apron/ramp built by us with disc textures (size and light measured in the interior), with collision; car swap
+  in My cars and the car lot without a loading screen. Edited in `tools/data/garage-layouts.json`.
 - Tests: `--garage-test <zone> [--garage-mode drive|inside|list] [--garage-screen …]`. Details:
   [doc 07](../docs/en/07-driving-and-garages.md) and [doc 17](../docs/en/17-interface.md).
 

diff --git a/docs/es/11-catalogo-de-datos.md b/docs/es/11-catalogo-de-datos.md
@@ -24,7 +24,8 @@ Nada de esto se sube a GitHub salvo los JSON pequeños de metadatos. Cifras de S
 | ¿Qué tráfico sale en cada barrio y cómo actúa la policía según el calor? | `ai.json` (10 patrones, 21 niveles de persecución, 59 zonas) | `ai-attribs.ts` | 14 |
 | ¿Qué dice la radio de la policía en cada momento? | `radio/radio.json` + `radio/COPSPEECH.BIG` (9854 clips, 559 bancos, 139 eventos) | `radio.ts` | 16 |
 | ¿Cómo suena cada coche, el turbo, los derrapes, la sirena, los golpes? | `sound/sound.json` + `sound/<CARPETA>/*.ABK, *.GIN` (301 bancos, 2350 sonidos, 160 motores, 103 coches, 608 golpes) | `sound.ts` | 16 |
-| ¿Cómo son los interiores de garaje? | `interiors/*.glb` (5) | `convert.ts interior` | 07 |
+| ¿Cómo son los interiores de garaje? | `interiors/*.glb` (5, todos los `BACKDROP*`) + `interiors/CAREER_SAFEHOUSE.reflection.glb` | `convert.ts interior` | 07 |
+| ¿Cómo se entra conduciendo en cada garaje? | `garage-scenes/<zona>.glb/.json/.bin` + `index.json` | `garage-scenes.ts` (+ `tools/data/garage-layouts.json`) | 07 §5 |
 | ¿Vista cenital del mapa? | `rockport-plano.png` + `.json` (escala) | `topdown.ts` | 03 |
 | ¿Qué películas hay, en qué idioma, con qué subtítulos y dónde están en la ISO? | `movies.json` (32 películas × 3 idiomas, 169 frases en 12 idiomas) | `movies.ts` | 22 |
 | ¿Cajas y esferas de colisión de cada coche y de los objetos rompibles? | `bounds.json` (83 coches, 405 objetos) | `bounds.ts` | 22 |

diff --git a/docs/en/11-data-catalog.md b/docs/en/11-data-catalog.md
@@ -24,7 +24,8 @@ None of it is pushed to GitHub except small metadata JSON files. Figures are for
 | Which traffic drives in each district and how do cops behave per heat level? | `ai.json` (10 patterns, 21 pursuit levels, 59 zones) | `ai-attribs.ts` | 14 |
 | What does the police radio say at each moment? | `radio/radio.json` + `radio/COPSPEECH.BIG` (9854 clips, 559 banks, 139 events) | `radio.ts` | 16 |
 | What does each car, the turbo, the skids, the siren, the impacts sound like? | `sound/sound.json` + `sound/<FOLDER>/*.ABK, *.GIN` (301 banks, 2350 sounds, 160 engines, 103 cars, 608 impacts) | `sound.ts` | 16 |
-| Garage interiors? | `interiors/*.glb` (5) | `convert.ts interior` | 07 |
+| Garage interiors? | `interiors/*.glb` (5, every `BACKDROP*`) + `interiors/CAREER_SAFEHOUSE.reflection.glb` | `convert.ts interior` | 07 |
+| How do you drive into each garage? | `garage-scenes/<zone>.glb/.json/.bin` + `index.json` | `garage-scenes.ts` (+ `tools/data/garage-layouts.json`) | 07 §5 |
 | Top-down map? | `rockport-plano.png` + `.json` (scale) | `topdown.ts` | 03 |
 | Which movies exist, in which language, with which subtitles, and where are they in the ISO? | `movies.json` (32 movies × 3 languages, 169 phrases in 12 languages) | `movies.ts` | 22 |
 | Collision boxes/spheres of every car and breakable object? | `bounds.json` (83 cars, 405 objects) | `bounds.ts` | 22 |
